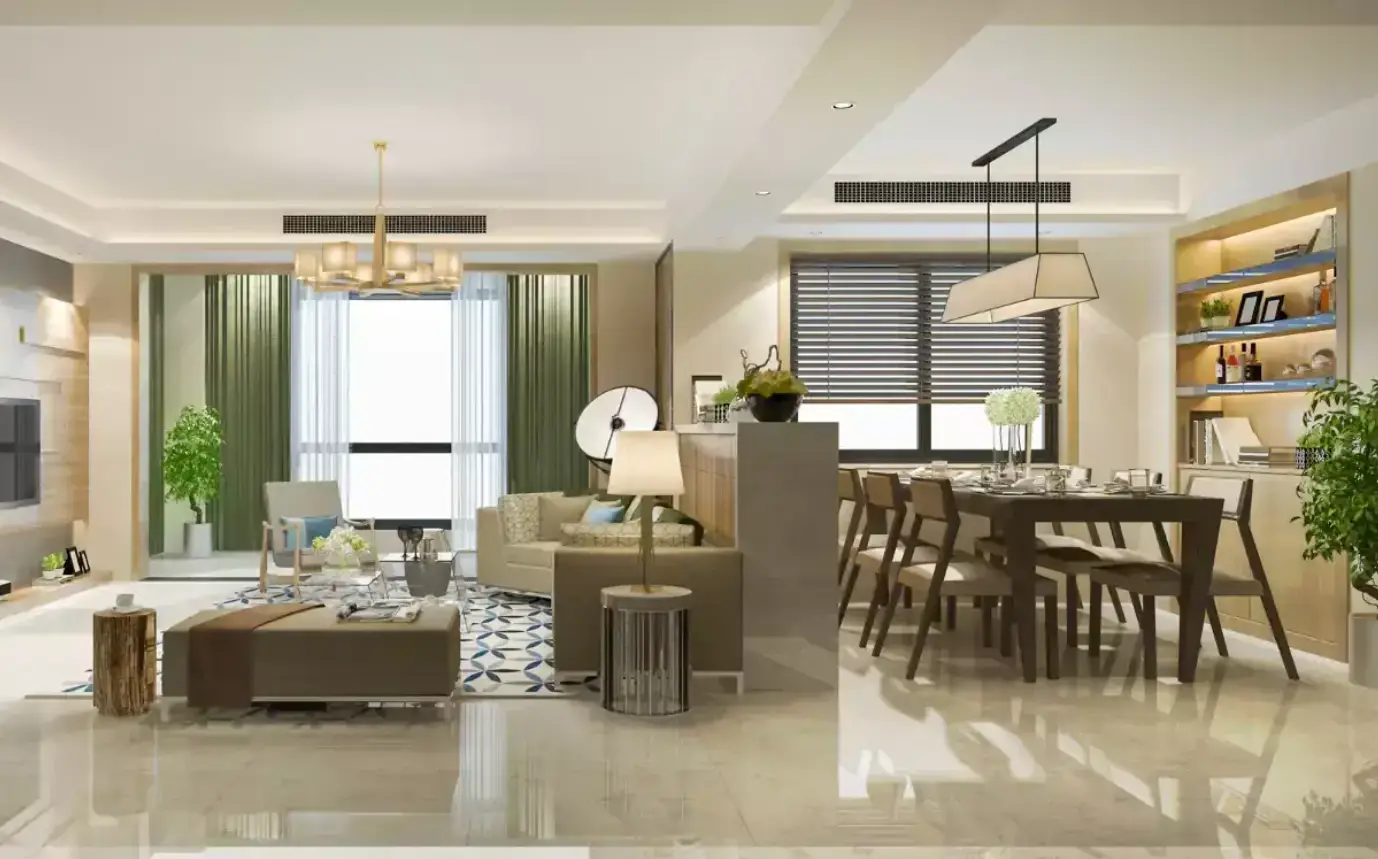
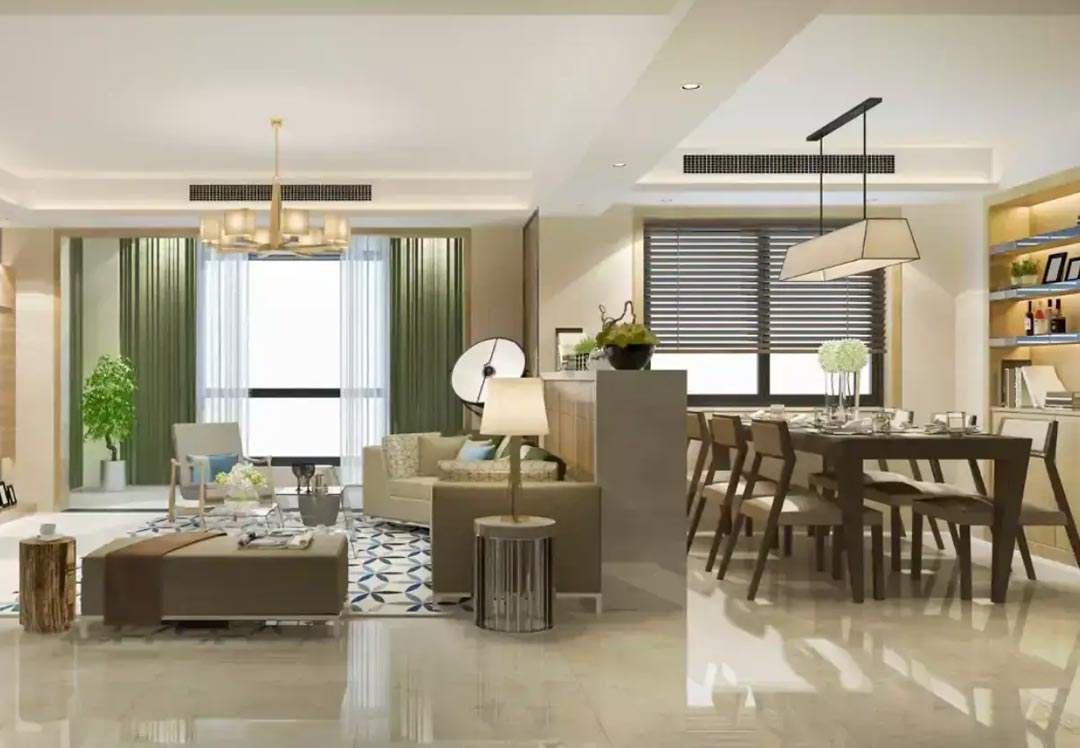
.env file updated, worked on residential page

diff --git a/src/frontend/components/residential/projectBox.jsx b/src/frontend/components/residential/projectBox.jsx
@@ -6,7 +6,7 @@ import { useImageReveal } from '../useImageReveal';
 import SlideIn from '../Animations/SlideIn';
 
 export default function ProjectBox({ projectsData }) {
-    
+
     useImageReveal(".reveal")
     const [isMobile, setIsMobile] = useState(false);
 
@@ -21,34 +21,39 @@ export default function ProjectBox({ projectsData }) {
 
 
     return (
-        <div className='project_box_wrap lg:p-0 p-[15px] pt-[30px]'>
+        <div className='project_box_wrap lg:p-0 p-[15px] pt-[0]'>
             {
                 projectsData && (
                     projectsData.map((data, index) =>
                         <div
-                            className='project_box reveal_cut_effect flex flex-wrap justify-between lg:even:flex-row-reverse lg:even:pl-[40px] lg:even:pr-[0] lg:pr-[40px] lg:pt-[80px] lg:mb-0 mb-[30px] lg:px-[0] lg:py-[0] px-[18px] py-[18px] lg:bg-transparent bg-white'
+                            className='project_box reveal_cut_effect flex flex-wrap justify-between lg:even:flex-row-reverse lg:even:pl-[40px] lg:even:pr-[0] lg:pr-[40px] lg:pt-[80px] lg:mb-0 mb-[30px] lg:px-[0] lg:py-[0] px-[15px] py-[15px] lg:bg-transparent bg-white'
                             key={index}>
                             <div className='img_side overflow-hidden lg:w-[62%] w-full reveal'>
                                 {/* <ZoomOut initialScale={1.5} duration={2}> */}
-                                <img src={`${CONFIG.ASSET_IMAGE_URL}frontend/images/projects/residential/${data.imgSrc}`} alt={data.alt} />
+                                {
+                                    window.innerWidth > 768 ?
+                                        <img src={`${CONFIG.ASSET_IMAGE_URL}frontend/images/projects/residential/${data.imgSrc}`} alt={data.alt} />
+                                        :
+                                        <img src={`${CONFIG.ASSET_IMAGE_URL}frontend/images/projects/residential/${data.imgSm}`} alt={data.alt} />
+                                }
                                 {/* </ZoomOut> */}
                             </div>
-                            <div className='content_side lg:pl-[50px] odd:pl-0 lg:w-[37%] w-full lg:pt-5 pt-[30px] grid lg:justify-between items-center lg:text-left lg:gap-0 gap-[35px]'>
+                            <div className='content_side lg:pl-[50px] odd:pl-0 lg:w-[37%] w-full lg:pt-5 pt-[30px] grid lg:justify-between items-center lg:text-left lg:gap-0 gap-[20px]'>
                                 <div className='top_div'>
-                                    <div className='pro_name midlandfontmedium lg:tracking-[7px] tracking-[5px] uppercase lg:text-[18px] text-[12px] lg:mb-[45px] mb-[20px]'>{data?.name}</div>
-                                    <div className='pro_name midlandfontmedium tracking-[4px] uppercase lg:text-[11px] text-[9px]'>{data?.location}</div>
+                                    <div className='pro_name midlandfontmedium lg:tracking-[7px] tracking-[5px] uppercase lg:text-[18px] text-[11px] lg:mb-[45px] mb-[20px]'>{data?.name}</div>
+                                    <div className='pro_name midlandfontmedium tracking-[4px] uppercase lg:text-[11px] text-[8px]'>{data?.location}</div>
                                 </div>
 
                                 <SlideIn duration={1} delay={0.5}>
                                     <div className='bottom_div'>
-                                        <span className='typology lg:text-[16px] text-[14px] tracking-[1px] uppercase block lg:mb-[25px] mb-[10px]'>{data?.typology}</span>
+                                        <span className='typology lg:text-[16px] text-[13px] tracking-[1px] uppercase block lg:mb-[25px] mb-[10px]'>{data?.typology}</span>
                                         <p className='overview text-[#000000B2] tracking-[1px] text-justify'>{isMobile ? data?.overview.slice(0, 160) + "..." : data?.overview}</p>
                                     </div>
                                 </SlideIn>
 
                                 <Link
                                     to={`${data?.pageLink}`}
-                                    className='lg:block px-6 py-[8px] lg:text-[16px] tracking-[2px] rounded-sm uppercase border text-[#33638b] border-[#33638b] hover:border-[#000] hover:text-[#000] w-fit'
+                                    className='lg:block lg:mt-0 mt-[12px] px-6 py-[8px] lg:text-[16px] tracking-[2px] rounded-sm uppercase border text-[#33638b] border-[#33638b] hover:border-[#000] hover:text-[#000] w-fit'
                                 >view project</Link>
 
 

diff --git a/index.html b/index.html
@@ -1,21 +1,60 @@
 <!DOCTYPE html>
 <html lang="en">
-  <head>
-    <meta charset="UTF-8" />
 
-    <link
-      rel="icon"
-      type="image/svg+xml"
-      href="assets/frontend/images/favicon.png"
-    />
-    <meta name="viewport" content="width=device-width, initial-scale=1.0" />
-    <title>GVR</title>
-  </head>
-  <body>
-    <div id="root"></div>
-    <div id="portal-root"></div>
-    <div id="sidebar_root"></div>
-    <div id="backdrop_root"></div>
-    <script type="module" src="/src/main.jsx"></script>
-  </body>
+<head>
+  <meta charset="UTF-8" />
+
+  <link rel="icon" type="image/svg+xml" href="assets/frontend/images/favicon.png" />
+  <meta name="viewport" content="width=device-width, initial-scale=1.0" />
+  <title>Great Value Realty | Home</title>
+  <meta name="keywords"
+    content="Great Value realty, Great Value Sharanam Noida, Great Value Anandam Noida, Sector 107 Noida,  Great Value Anandam, Great Value Sharanam Sector 107 Noida" />
+  <meta name="description"
+    content="At Great Value Realty, we go beyond building homes—we build trust, deliver exceptional value, and create lasting experiences The Real Estate Projects." />
+  <meta name="google-site-verification" content="Ma-arPYmEe7u20NJ-jsuiHjD1p2HSShiEPD4m8s3bL8" />
+  <link rel="canonical" href="https://greatvaluerealty.com/" />
+  <meta name="distribution" content="Global" />
+  <meta name="Language" content="English" />
+  <meta name="doc-type" content="Public" />
+  <meta name="robots" content="index, follow" />
+  <meta name="author" content="Great Value Realty Noida" />
+  <meta name="googlebot" content="all, index, follow" />
+  <meta name="YahooSeeker" content="all, index, follow" />
+  <meta name="msnbot" content="all, index, follow" />
+  <meta name="HandheldFriendly" content="true" />
+  <meta name="revisit-after" content="1 days">
+  <meta name="rating" content="safe for kids">
+  <meta name="expires" content="never">
+  <meta property="og:type" content="website" />
+  <meta property="og:title" content="Great Value Realty | Home" />
+  <meta property="og:description"
+    content="At Great Value Realty, we go beyond building homes—we build trust, deliver exceptional value, and create lasting experiences.The Real Estate Projects." />
+  <meta property="og:url" content="https://greatvaluerealty.com/" />
+  <meta property="og:site_name" content="Great Value Realty Noida" />
+  <meta property="og:image" content="https://greatvaluerealty.com/assets/frontend/images/logo.png">
+  <meta name="twitter:card" content="summary" />
+  <meta name="twitter:site" content="@GreatValueGroup" />
+  <meta name="twitter:title" content="Great Value Realty| Home">
+  <meta name="twitter:description"
+    content="At Great Value Realty, we go beyond building homes—we build trust, deliver exceptional value, and create lasting experiences. The Real Estate Projects.">
+  <meta name="twitter:creator" content="@GreatValueGroup" />
+  <meta name="twitter:image" content="https://greatvaluerealty.com/assets/frontend/images/logo.png" />
+  <script async src="https://www.googletagmanager.com/gtag/js?id=G-FNK3GPJG5D"></script>
+  <script>
+    window.dataLayer = window.dataLayer || [];
+    function gtag() { dataLayer.push(arguments); }
+    gtag('js', new Date());
+
+    gtag('config', 'G-FNK3GPJG5D');
+  </script>
+</head>
+
+<body>
+  <div id="root"></div>
+  <div id="portal-root"></div>
+  <div id="sidebar_root"></div>
+  <div id="backdrop_root"></div>
+  <script type="module" src="/src/main.jsx"></script>
+</body>
+
 </html>

diff --git a/src/frontend/pages/residential.jsx b/src/frontend/pages/residential.jsx
@@ -10,7 +10,8 @@ export default function Residential() {
   const projectsData = [
     {
       name: "sharnam",
-      imgSrc: "sharnam.jpg",
+      imgSrc: "sharnam.webp",
+      imgSm: "sharnam-sm.webp",
       location: "Sec 107, Noida",
       typology: "2, 3 & 4 BHK Luxury Residential Apartments",
       overview: "Great Value presents a new stature of luxury residential apartments at SHARANAM. Located in sector 107, Noida, these stunning apartments comprise of 18 exclusive towers with 2, 3 and 4 BHK Flats. At SHARANAM you will not only enjoy the benefits of a beautiful location but, you can also take pleasure with ready to move flats facilities in Noida.",
@@ -19,7 +20,8 @@ export default function Residential() {
     },
     {
       name: "Anandam",
-      imgSrc: "anandam.jpg",
+      imgSrc: "anandam.webp",
+      imgSm: "anandam-sm.webp",
       location: "Sec 107, Noida",
       typology: "2, 3 & 4 BHK Luxury Residential Apartments",
       overview: "Great Value Sharnam proved to be a landmark and continuing the legacy of delivering success, we gladly unveil our newest and the most elegant piece of art to be ever built-Great Value Anandam, situated in the heart of luxury, sector 107, Noida. This project depicts sheer elegance. It breathes opulence and makes conveniences a readily available resource, with everything that you can ever imagine available so promptly. Great Value Anandam is the example of true magnificence, suited seamlessly to blue bloods.",
@@ -28,7 +30,8 @@ export default function Residential() {
     },
     {
       name: "CASA UDAY",
-      imgSrc: "gv-home.jpg",
+      imgSrc: "gv-home.webp",
+      imgSm: "gv-home-sm.webp",
       location: "Uday Park, New Delhi",
       typology: "Luxury and Modern Builder Floors",
       overview: "GV Homes offers a luxury modern builders floor with a uniquely fashioned and perfectly placed to embrace the culture of Great Value. Our product proposition is predicated on design-led innovation that is based on research. We design homes that ensure trust for generations. Some of the key themes in our approach include creating a sense of place, brighter living experience, technological innovation, thoughtful amenities, and much more.",
@@ -38,6 +41,7 @@ export default function Residential() {
     {
       name: "Vilasa",
       imgSrc: "vilasa.webp",
+      imgSm: "vilasa-sm.webp",
       location: "SECTOR 6, SOHNA",
       typology: "Luxury Residential Plots",
       overview: "Vilasa is an exclusive residential plotted development in Sector 6, Sohna, offering customizable plots in a secure gated community. With premium amenities, excellent connectivity to Gurgaon, and scenic views of the Aravalli Hills, it presents a perfect opportunity for investors and homeowners to build their dream space in a rapidly growing location.",
@@ -46,7 +50,8 @@ export default function Residential() {
     },
     {
       name: "Sanctuary 105",
-      imgSrc: "sanctuary.jpg",
+      imgSrc: "sanctuary.webp",
+      imgSm: "sanctuary-sm.webp",
       location: "Sector 105, Gurugram",
       typology: "3 & 4 BHK Apartments",
       overview: "Sanctuary 105 is more than just an address; it’s an open escape, offering the perfect retreat from the hustle and bustle of real Gurugram, designed to provide each resident with a single neighbour. An address seamlessly blends the contrasting elements of art, architecture, and nature.",

diff --git a/src/frontend/components/heroSection/Hero.jsx b/src/frontend/components/heroSection/Hero.jsx
@@ -30,7 +30,7 @@ export default function Hero({
         {/* Background Image */}
 
         <div
-          className="hero_vdo_div lg:h-[auto] h-[75vh] relative w-full] bg-cover"
+          className="hero_vdo_div lg:h-[auto] h-[auto] relative w-full] bg-cover"
           style={{
             background:
               "url(assets/frontend/images/home/hero.jpg) no-repeat center",
@@ -43,14 +43,14 @@ export default function Hero({
             src={
               window.innerWidth > 767
                 ? `https://res.cloudinary.com/dx3l6id8r/video/upload/v1739885030/1920x900_n3tzkh.mp4`
-                : `https://res.cloudinary.com/dx3l6id8r/video/upload/v1739886243/700x1000_hflfjc.mp4`
-            }
+                : `https://res.cloudinary.com/dx3l6id8r/video/upload/v1739959517/700x600_dpqfw9.mp4`
+            } 
             autoPlay
             playsInline
             loop
             muted={isMuted}
             preload="auto"
-            className="lg:h-[auto] h-[75vh] w-full object-cover"
+            className="lg:h-[auto] h-[auto] w-full object-cover"
           ></video>
           <div className="vdo_btns absolute lg:bottom-[40px] bottom-[15px] lg:right-[30px] right-[15px]">
             <button
